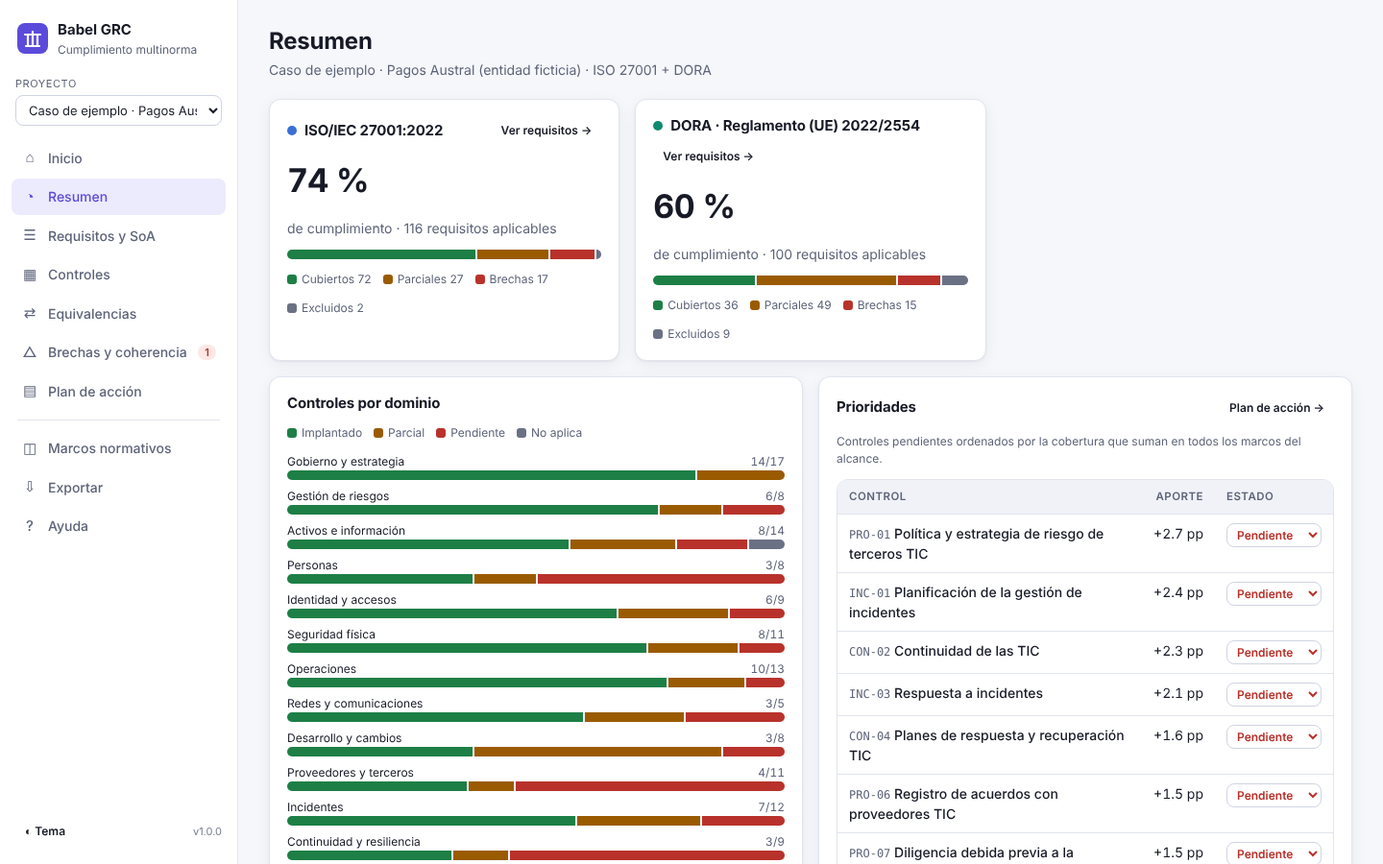
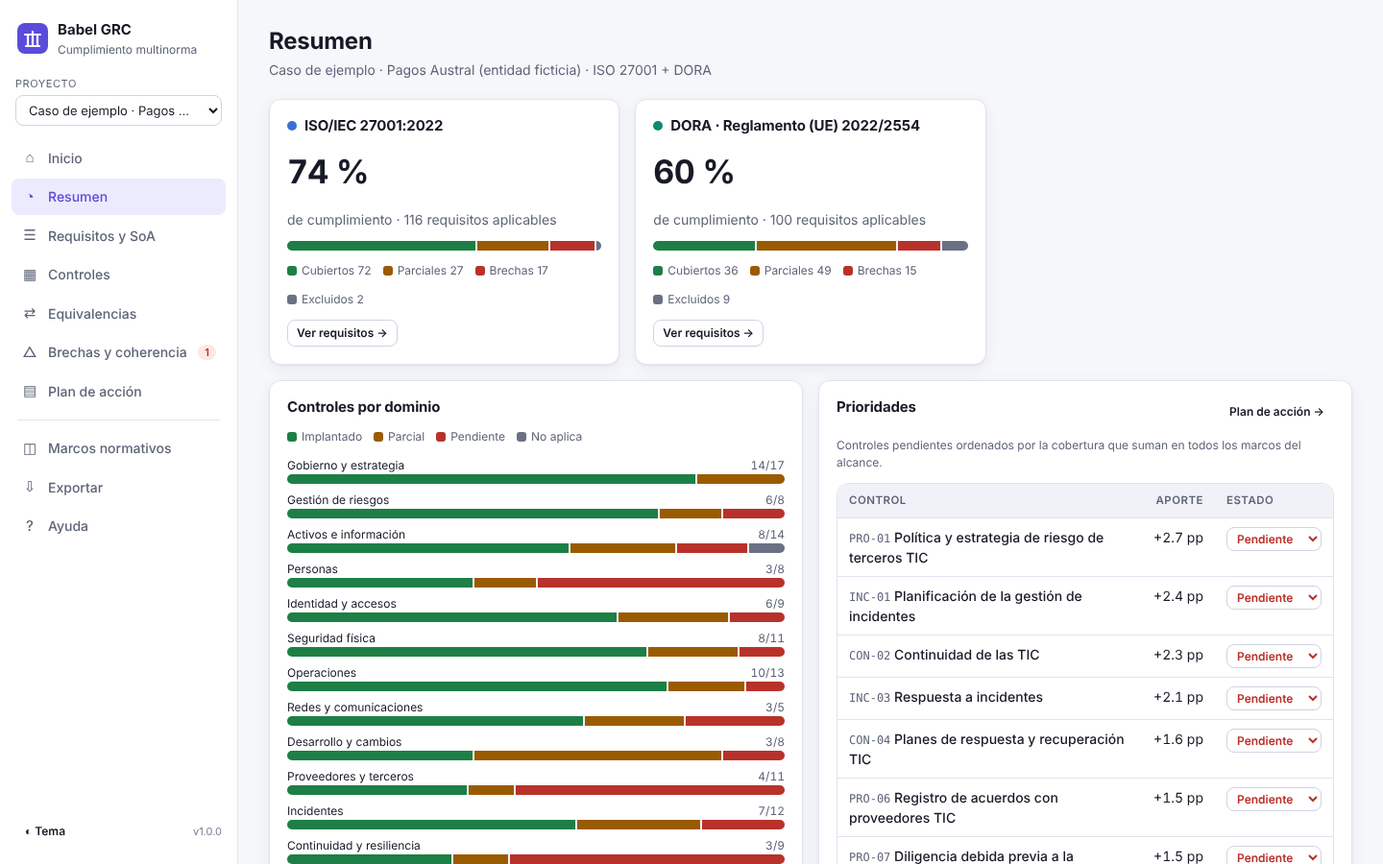
Corregir desbordes de contenido en tarjetas y vistas (1.0.1)
- Fichas de marcos: columna de valores con minmax(0, 1fr) y corte de
  palabras; URLs, versiones y nombres largos ya no salen de la tarjeta.
- fwTitle(): título de marco único que ajusta el nombre en varias líneas,
  usado en Marcos, Resumen, Equivalencias y Brechas.
- Cabeceras de tarjeta (.card-head) que no aprietan el título; grids y
  flex sin desbordes por contenido; chips y referencias que se ajustan.
- Móvil: el selector de proyecto y las etiquetas accesibles de las
  tablas ya no generan desplazamiento horizontal.
- Prueba E2E de regresión con un marco de textos extremos en todas las
  vistas y paneles, a 1440, 1000 y 390 px.

Claude-Session: https://claude.ai/code/session_01SeKHPEb1UECE1YRVMXTbff

diff --git a/src/styles/app.css b/src/styles/app.css
@@ -32,7 +32,8 @@
 }
 * { box-sizing: border-box; }
 html, body { margin: 0; height: 100%; }
-body { background: var(--bg); color: var(--text); font: 14px/1.5 var(--font); -webkit-font-smoothing: antialiased; }
+body { background: var(--bg); color: var(--text); font: 14px/1.5 var(--font); -webkit-font-smoothing: antialiased; overflow-wrap: anywhere; }
+table { overflow-wrap: break-word; }
 a { color: var(--accent); }
 h1, h2, h3, h4 { margin: 0; line-height: 1.25; letter-spacing: -.01em; }
 h1 { font-size: 24px; } h2 { font-size: 18px; } h3 { font-size: 15px; } h4 { font-size: 12px; text-transform: uppercase; letter-spacing: .05em; color: var(--muted); }
@@ -44,8 +45,8 @@ code, .mono { font-family: var(--mono); font-size: 12.5px; }
 [hidden] { display: none !important; }
 
 /* ---- layout ---- */
-.shell { display: grid; grid-template-columns: 248px 1fr; min-height: 100vh; }
-.side { position: sticky; top: 0; height: 100vh; overflow: auto; background: var(--surface); border-right: 1px solid var(--line); display: flex; flex-direction: column; padding: 16px 12px; gap: 14px; }
+.shell { display: grid; grid-template-columns: 248px minmax(0, 1fr); min-height: 100vh; }
+.side { min-width: 0; position: sticky; top: 0; height: 100vh; overflow: auto; background: var(--surface); border-right: 1px solid var(--line); display: flex; flex-direction: column; padding: 16px 12px; gap: 14px; }
 .brand { display: flex; gap: 10px; align-items: center; padding: 4px 6px; }
 .brand svg { width: 32px; height: 32px; flex: none; }
 .brand svg rect { fill: var(--accent); }
@@ -54,7 +55,7 @@ code, .mono { font-family: var(--mono); font-size: 12.5px; }
 .brand span { display: block; font-size: 12px; color: var(--muted); }
 .proj { padding: 0 4px; }
 .proj label { font-size: 11px; color: var(--muted); text-transform: uppercase; letter-spacing: .05em; display: block; margin-bottom: 4px; }
-.proj select { width: 100%; }
+.proj select { width: 100%; max-width: 100%; text-overflow: ellipsis; }
 nav { display: flex; flex-direction: column; gap: 2px; }
 nav button { all: unset; box-sizing: border-box; display: flex; align-items: center; gap: 10px; padding: 8px 10px; border-radius: 8px; cursor: pointer; color: var(--muted); font-weight: 500; }
 nav button:hover { background: var(--surface-2); color: var(--text); }
@@ -71,8 +72,18 @@ main { padding: 28px 32px 64px; min-width: 0; outline: none; }
 .grid { display: grid; gap: 16px; }
 .g2 { grid-template-columns: repeat(2, minmax(0, 1fr)); }
 .g3 { grid-template-columns: repeat(3, minmax(0, 1fr)); }
-.gauto { grid-template-columns: repeat(auto-fill, minmax(300px, 1fr)); }
+.gauto { grid-template-columns: repeat(auto-fill, minmax(min(300px, 100%), 1fr)); }
+.grid > * { min-width: 0; }
 .row { display: flex; gap: 8px; align-items: center; flex-wrap: wrap; }
+.row > *, .stack > * { min-width: 0; max-width: 100%; }
+.grow { flex: 1 1 0; min-width: 0; }
+.card-head { display: flex; gap: 8px 12px; align-items: flex-start; justify-content: space-between; }
+.card-head > :first-child { flex: 1 1 auto; min-width: 0; }
+.card-head > :not(:first-child) { flex: none; }
+.fw-title { display: flex; gap: 8px; align-items: baseline; flex-wrap: wrap; min-width: 0; }
+.fw-title > .fw-dot { align-self: center; }
+.fw-title > .name { flex: 1 1 12ch; min-width: 0; }
+.trunc { overflow: hidden; text-overflow: ellipsis; min-width: 0; }
 .spread { justify-content: space-between; }
 .stack { display: flex; flex-direction: column; gap: 8px; }
 .mt { margin-top: 16px; } .mt-s { margin-top: 8px; } .mb { margin-bottom: 16px; }
@@ -108,7 +119,7 @@ main { padding: 28px 32px 64px; min-width: 0; outline: none; }
 .bar.ok > span { background: var(--ok); } .bar.warn > span { background: var(--warn); } .bar.bad > span { background: var(--bad); }
 
 /* ---- chips ---- */
-.chip { display: inline-flex; align-items: center; gap: 5px; font-size: 12px; font-weight: 500; padding: 1px 8px; border-radius: 99px; background: var(--surface-2); color: var(--muted); border: 1px solid transparent; white-space: nowrap; }
+.chip { display: inline-flex; max-width: 100%; overflow: hidden; align-items: center; gap: 5px; font-size: 12px; font-weight: 500; padding: 1px 8px; border-radius: 99px; background: var(--surface-2); color: var(--muted); border: 1px solid transparent; white-space: nowrap; }
 .chip.ok, .chip.covered, .chip.implemented { background: var(--ok-soft); color: var(--ok); }
 .chip.warn, .chip.partial { background: var(--warn-soft); color: var(--warn); }
 .chip.bad, .chip.gap, .chip.pending, .chip.alta { background: var(--bad-soft); color: var(--bad); }
@@ -140,11 +151,12 @@ select.st.implemented { color: var(--ok); } select.st.partial { color: var(--war
 label.field { display: flex; flex-direction: column; gap: 4px; font-size: 12px; color: var(--muted); font-weight: 500; }
 label.check { display: flex; align-items: center; gap: 8px; cursor: pointer; }
 .filters { display: flex; gap: 8px; flex-wrap: wrap; align-items: center; margin-bottom: 12px; }
-.filters input[type=search] { min-width: 200px; flex: 1; max-width: 360px; }
+.filters input[type=search] { min-width: min(200px, 100%); flex: 1; max-width: 360px; }
+.filters select { max-width: 100%; }
 .vh { position: absolute; width: 1px; height: 1px; overflow: hidden; clip: rect(0 0 0 0); white-space: nowrap; }
 
 /* ---- tables ---- */
-.tbl-wrap { overflow-x: auto; border: 1px solid var(--line); border-radius: var(--radius); background: var(--surface); }
+.tbl-wrap { position: relative; overflow-x: auto; border: 1px solid var(--line); border-radius: var(--radius); background: var(--surface); }
 table { width: 100%; border-collapse: collapse; }
 th, td { text-align: left; padding: 9px 12px; border-bottom: 1px solid var(--line); vertical-align: top; }
 th { font-size: 11.5px; text-transform: uppercase; letter-spacing: .04em; color: var(--muted); font-weight: 600; background: var(--surface-2); }
@@ -152,7 +164,9 @@ tr:last-child td { border-bottom: 0; }
 tr.group td { background: var(--surface-2); font-weight: 600; font-size: 12.5px; color: var(--muted); }
 td .sub { color: var(--muted); font-size: 12px; margin-top: 2px; }
 td input[type=text] { width: 100%; min-width: 120px; }
-.ref { font-family: var(--mono); font-size: 12px; color: var(--muted); white-space: nowrap; }
+.ref { font-family: var(--mono); font-size: 12px; color: var(--muted); }
+td.ref { white-space: nowrap; }
+.list .ref { flex: none; max-width: 40%; }
 .linkish { all: unset; cursor: pointer; color: var(--text); font-weight: 500; }
 .linkish:hover { color: var(--accent); text-decoration: underline; }
 .linkish:focus-visible { outline: 2px solid var(--accent); }
@@ -162,6 +176,7 @@ td input[type=text] { width: 100%; min-width: 120px; }
 
 /* ---- plan ---- */
 .kanban { display: grid; grid-template-columns: repeat(3, minmax(0, 1fr)); gap: 14px; align-items: start; }
+.kanban > *, .kcard, .kcard > * { min-width: 0; }
 .col { background: var(--surface-2); border-radius: var(--radius); padding: 10px; display: flex; flex-direction: column; gap: 8px; min-height: 120px; }
 .col > h3 { padding: 4px 6px; display: flex; justify-content: space-between; }
 .kcard { background: var(--surface); border: 1px solid var(--line); border-radius: 10px; padding: 10px 12px; display: flex; flex-direction: column; gap: 6px; }
@@ -169,19 +184,22 @@ td input[type=text] { width: 100%; min-width: 120px; }
 .kcard input[type=text] { padding: 3px 7px; font-size: 12px; flex: 1; }
 
 /* ---- equivalences ---- */
-.eq { display: grid; grid-template-columns: minmax(260px, 380px) 1fr; gap: 16px; align-items: start; }
+.eq { display: grid; grid-template-columns: minmax(240px, 380px) minmax(0, 1fr); gap: 16px; align-items: start; }
+.eq > * { min-width: 0; }
 .list { max-height: 68vh; overflow: auto; display: flex; flex-direction: column; margin-top: 8px; }
-.list button { all: unset; box-sizing: border-box; padding: 7px 10px; border-radius: 8px; cursor: pointer; display: flex; gap: 8px; }
+.list button { all: unset; box-sizing: border-box; padding: 7px 10px; border-radius: 8px; cursor: pointer; display: flex; gap: 8px; max-width: 100%; overflow-wrap: anywhere; }
 .list button:hover { background: var(--surface-2); }
 .list button[aria-current="true"] { background: var(--accent-soft); }
 .list button:focus-visible { outline: 2px solid var(--accent); }
 
 /* ---- drawer / modal / toast ---- */
 .drawer { position: fixed; inset: 0; z-index: 50; display: flex; justify-content: flex-end; background: rgba(10,12,20,.35); }
-.drawer .panel { width: min(580px, 100%); height: 100%; overflow: auto; background: var(--surface); border-left: 1px solid var(--line); padding: 22px; box-shadow: -10px 0 30px rgba(0,0,0,.15); display: flex; flex-direction: column; gap: 14px; }
+.drawer .panel { min-width: 0; overflow-x: hidden; width: min(580px, 100%); height: 100%; overflow: auto; background: var(--surface); border-left: 1px solid var(--line); padding: 22px; box-shadow: -10px 0 30px rgba(0,0,0,.15); display: flex; flex-direction: column; gap: 14px; }
 .modal { position: fixed; inset: 0; z-index: 60; display: grid; place-items: center; background: rgba(10,12,20,.45); padding: 16px; }
-.modal .panel { width: min(680px, 100%); max-height: 90vh; overflow: auto; background: var(--surface); border: 1px solid var(--line); border-radius: var(--radius); padding: 22px; display: flex; flex-direction: column; gap: 14px; box-shadow: var(--shadow); }
+.modal .panel { min-width: 0; overflow-x: hidden; width: min(680px, 100%); max-height: 90vh; overflow: auto; background: var(--surface); border: 1px solid var(--line); border-radius: var(--radius); padding: 22px; display: flex; flex-direction: column; gap: 14px; box-shadow: var(--shadow); }
 .panel-head { display: flex; justify-content: space-between; gap: 12px; align-items: flex-start; }
+.panel-head > :first-child { min-width: 0; flex: 1 1 auto; }
+.panel-head > .x { flex: none; }
 .x { all: unset; cursor: pointer; font-size: 20px; line-height: 1; color: var(--muted); padding: 2px 6px; border-radius: 6px; }
 .x:hover { background: var(--surface-2); color: var(--text); }
 .x:focus-visible { outline: 2px solid var(--accent); }
@@ -189,8 +207,8 @@ td input[type=text] { width: 100%; min-width: 120px; }
 .toast.show { opacity: 1; }
 .drop { border: 2px dashed var(--line-2); border-radius: var(--radius); padding: 22px; text-align: center; color: var(--muted); }
 .drop.over { border-color: var(--accent); background: var(--accent-soft); }
-.kv { display: grid; grid-template-columns: 150px 1fr; gap: 4px 12px; font-size: 13px; margin: 0; }
-.kv dt { color: var(--muted); } .kv dd { margin: 0; }
+.kv { display: grid; grid-template-columns: minmax(80px, max-content) minmax(0, 1fr); gap: 4px 16px; font-size: 13px; margin: 0; }
+.kv dt { color: var(--muted); } .kv dd { margin: 0; min-width: 0; }
 details summary { cursor: pointer; font-weight: 600; }
 .prose h3 { margin-top: 20px; } .prose p, .prose ul, .prose ol { margin: 8px 0; max-width: 80ch; } .prose li { margin: 3px 0; }
 .formula { font-family: var(--mono); background: var(--surface-2); padding: 10px 12px; border-radius: 8px; display: inline-block; }
@@ -206,7 +224,6 @@ details summary { cursor: pointer; font-weight: 600; }
   .side-foot { margin-top: 0; }
   main { padding: 18px 16px 48px; }
   .g2, .g3, .kanban { grid-template-columns: 1fr; }
-  .kv { grid-template-columns: 1fr; }
 }
 @media print {
   .side, .filters, .btn, .drawer, .modal, .toast { display: none !important; }

diff --git a/src/app/02-views.js b/src/app/02-views.js
@@ -7,8 +7,8 @@ VIEWS.inicio = () => {
   const projects = S.projects.map(p => {
     const sc = scope(p);
     return `<div class="card">
-      <div class="row spread"><h3>${esc(p.name)}</h3>${p.id === S.activeId ? '<span class="chip accent">Abierto</span>' : ''}</div>
-      <div class="stack">${sc.length ? sc.map(id => { const s = E.frameworkScore(S.model, p, id); return `<div class="row spread small"><span class="row">${dot(id)}${esc(fw(id).shortName)}</span><span class="num">${pct(s.score)}</span></div>${bar(s.score)}`; }).join('') : '<p class="muted small">Sin marcos en el alcance.</p>'}</div>
+      <div class="card-head"><h3>${esc(p.name)}</h3>${p.id === S.activeId ? '<span class="chip accent">Abierto</span>' : ''}</div>
+      <div class="stack">${sc.length ? sc.map(id => { const s = E.frameworkScore(S.model, p, id); return `<div class="card-head small"><span class="fw-title">${dot(id)}<span class="name">${esc(fw(id).shortName)}</span></span><span class="num">${pct(s.score)}</span></div>${bar(s.score)}`; }).join('') : '<p class="muted small">Sin marcos en el alcance.</p>'}</div>
       <div class="row">
         ${p.id === S.activeId ? `<button class="btn primary sm" data-act="go" data-view="resumen" type="button">Ver resumen</button>` : `<button class="btn primary sm" data-act="open-project" data-id="${esc(p.id)}" type="button">Abrir</button>`}
         <button class="btn sm" data-act="rename-project" data-id="${esc(p.id)}" type="button">Renombrar</button>
@@ -95,10 +95,11 @@ VIEWS.resumen = () => {
   const cards = sc.map(id => {
     const s = E.frameworkScore(S.model, p, id), f = fw(id), c = s.counts;
     return `<div class="card">
-      <div class="row spread"><h3 class="row">${dot(id)}${esc(f.name)}</h3><button class="btn sm ghost" data-act="go" data-view="requisitos" data-fw="${esc(id)}" type="button">Ver requisitos →</button></div>
+      ${fwTitle(id)}
       <div class="score"><span class="big">${pct(s.score)}</span><span class="muted">de cumplimiento · ${s.applicable} requisitos aplicables</span></div>
       ${seg([['covered', c.covered, 'Cubiertos'], ['partial', c.partial, 'Parciales'], ['gap', c.gap, 'Brechas'], ['unmapped', c.unmapped, 'Sin mapear'], ['excluded', c.excluded, 'Excluidos']])}
       <div class="legend"><span><i class="s-covered"></i>Cubiertos ${c.covered}</span><span><i class="s-partial"></i>Parciales ${c.partial}</span><span><i class="s-gap"></i>Brechas ${c.gap}</span>${c.unmapped ? `<span><i class="s-unmapped"></i>Sin mapear ${c.unmapped}</span>` : ''}${c.excluded ? `<span><i class="s-excluded"></i>Excluidos ${c.excluded}</span>` : ''}</div>
+      <div><button class="btn sm" data-act="go" data-view="requisitos" data-fw="${esc(id)}" type="button">Ver requisitos →</button></div>
     </div>`;
   }).join('');
   const dom = E.domainSummary(S.model, p);
@@ -113,14 +114,14 @@ VIEWS.resumen = () => {
     <div class="grid g2">
       <div class="card"><h3>Controles por dominio</h3>
         <div class="legend"><span><i class="s-implemented"></i>Implantado</span><span><i class="s-partial"></i>Parcial</span><span><i class="s-pending"></i>Pendiente</span><span><i class="s-na"></i>No aplica</span></div>
-        <div class="stack">${dom.map(d => `<div><div class="row spread small"><span>${esc(d.title)}</span><span class="muted num">${d.implemented}/${d.total}</span></div>${seg([['implemented', d.implemented, 'Implantados'], ['partial', d.partial, 'Parciales'], ['pending', d.pending, 'Pendientes'], ['na', d.na, 'No aplica']])}</div>`).join('')}</div>
+        <div class="stack">${dom.map(d => `<div><div class="card-head small"><span>${esc(d.title)}</span><span class="muted num">${d.implemented}/${d.total}</span></div>${seg([['implemented', d.implemented, 'Implantados'], ['partial', d.partial, 'Parciales'], ['pending', d.pending, 'Pendientes'], ['na', d.na, 'No aplica']])}</div>`).join('')}</div>
       </div>
       <div class="stack">
-        <div class="card"><div class="row spread"><h3>Prioridades</h3><button class="btn sm ghost" data-act="go" data-view="plan" type="button">Plan de acción →</button></div>
+        <div class="card"><div class="card-head"><h3>Prioridades</h3><button class="btn sm ghost" data-act="go" data-view="plan" type="button">Plan de acción →</button></div>
           <p class="muted small">Controles pendientes ordenados por la cobertura que suman en todos los marcos del alcance.</p>
           ${pr.length ? `<div class="tbl-wrap"><table><thead><tr><th>Control</th><th class="right">Aporte</th><th>Estado</th></tr></thead><tbody>${pr.map(x => `<tr><td><button class="linkish" data-act="ctrl" data-id="${esc(x.control)}" type="button"><span class="ref">${esc(x.control)}</span> ${esc(ctrl(x.control).title)}</button></td><td class="right num nowrap">+${(x.gain * 100).toFixed(1)} pp</td><td>${statusSelect(x.control, x.status, null, 'pr-' + x.control)}</td></tr>`).join('')}</tbody></table></div>` : '<p class="muted">No quedan controles pendientes. ✓</p>'}
         </div>
-        <div class="card"><div class="row spread"><h3>Coherencia</h3><button class="btn sm ghost" data-act="go" data-view="brechas" type="button">Ver alertas →</button></div>
+        <div class="card"><div class="card-head"><h3>Coherencia</h3><button class="btn sm ghost" data-act="go" data-view="brechas" type="button">Ver alertas →</button></div>
           <div class="row"><span class="chip alta">Alta ${sev('alta')}</span><span class="chip media">Media ${sev('media')}</span><span class="chip baja">Baja ${sev('baja')}</span></div>
         </div>
       </div>
@@ -281,12 +282,12 @@ VIEWS.equivalencias = () => {
       <div class="card">
         <div class="filters"><label class="vh" for="eq-fw">Marco</label><select id="eq-fw" data-chg="eq-fw">${all.map(x => `<option value="${esc(x.id)}"${x.id === sel ? ' selected' : ''}>${esc(x.name)}</option>`).join('')}</select>
         <label class="vh" for="eq-q">Buscar</label><input type="search" id="eq-q" placeholder="Filtrar requisitos…" value="${esc(filt('q', ''))}" data-inp="filter" data-key="q"></div>
-        <div class="list">${items.map(x => `<button type="button" data-act="eq-pick" data-fw="${esc(sel)}" data-id="${esc(x.id)}"${x.id === rid ? ' aria-current="true"' : ''}><span class="ref">${esc(x.ref)}</span><span>${esc(x.title)}</span></button>`).join('') || '<p class="muted small">Sin resultados.</p>'}</div>
+        <div class="list">${items.map(x => `<button type="button" data-act="eq-pick" data-fw="${esc(sel)}" data-id="${esc(x.id)}"${x.id === rid ? ' aria-current="true"' : ''}><span class="ref">${esc(x.ref)}</span><span class="grow">${esc(x.title)}</span></button>`).join('') || '<p class="muted small">Sin resultados.</p>'}</div>
       </div>
       <div class="stack">
         <div class="card"><div class="row">${fwTag(sel)}<span class="ref">${esc(r.ref)}</span>${stateChip(c.state)}</div><h2>${esc(r.title)}</h2>${r.summary ? `<p class="muted">${esc(r.summary)}</p>` : ''}
           <div class="row">${c.links.map(l => ctrlChip(l.control, p) + `<span class="faint small">${E.STRENGTH_LABEL[l.strength].toLowerCase()}</span>`).join(' ')}</div></div>
-        ${Object.keys(grouped).length ? Object.keys(grouped).map(g => `<div class="card"><h3 class="row">${dot(g)}${esc(fw(g).name)} <span class="muted small">${grouped[g].length} requisito(s)</span></h3>
+        ${Object.keys(grouped).length ? Object.keys(grouped).map(g => `<div class="card">${fwTitle(g, ` <span class="muted small nowrap">${grouped[g].length} requisito(s)</span>`)}
           <div class="tbl-wrap"><table><thead><tr><th>Ref.</th><th>Requisito</th><th>Tipo</th><th>Vía</th><th>Estado</th></tr></thead><tbody>
           ${grouped[g].map(e => { const o = req(e.fw, e.req), oc = E.requirementCoverage(S.model, p, e.fw, e.req); return `<tr><td class="ref">${esc(o.ref)}</td><td><button class="linkish" data-act="eq-pick" data-fw="${esc(e.fw)}" data-id="${esc(e.req)}" type="button">${esc(o.title)}</button></td><td><span class="chip ${e.strength === 'full' ? 'ok' : e.strength === 'partial' ? 'warn' : ''}">${e.strength === 'full' ? 'Equivalente' : E.STRENGTH_LABEL[e.strength]}</span></td><td class="mono small">${e.via.map(esc).join(', ')}</td><td>${stateChip(oc.state)}</td></tr>`; }).join('')}
           </tbody></table></div></div>`).join('') : '<div class="card empty">Este requisito no comparte controles con otros marcos.</div>'}
@@ -306,11 +307,11 @@ VIEWS.brechas = () => {
   const shown = al.filter(a => !sv || a.severity === sv);
   const gaps = sc.map(id => {
     const list = fw(id).requirements.map(r => E.requirementCoverage(S.model, p, id, r.id)).filter(c => c.state === 'gap' || c.state === 'unmapped');
-    return `<div class="card"><h3 class="row">${dot(id)}${esc(fw(id).name)} <span class="chip bad">${list.length} sin cubrir</span></h3>
+    return `<div class="card">${fwTitle(id, ` <span class="chip bad">${list.length} sin cubrir</span>`)}
       ${list.length ? `<div class="tbl-wrap"><table><tbody>${list.map(c => `<tr><td class="ref">${esc(c.req.ref)}</td><td><button class="linkish" data-act="req" data-fw="${esc(id)}" data-id="${esc(c.req.id)}" type="button">${esc(c.req.title)}</button></td><td>${stateChip(c.state)}</td><td><div class="row">${c.links.filter(l => l.weight > 0).map(l => ctrlChip(l.control, p)).join(' ')}</div></td></tr>`).join('')}</tbody></table></div>` : '<p class="muted">Todos los requisitos aplicables tienen alguna cobertura.</p>'}</div>`;
   }).join('');
   return head('Brechas y coherencia', 'Requisitos sin cobertura en cada marco y alertas de coherencia: controles sin evidencias o sin responsable, revisiones de más de 12 meses, exclusiones no permitidas o contradictorias entre marcos y requisitos sin mapear.') +
-    `<div class="card mb"><div class="row spread"><h2>Alertas (${al.length})</h2>
+    `<div class="card mb"><div class="card-head"><h2>Alertas (${al.length})</h2>
       <div class="row"><label class="vh" for="br-sv">Severidad</label><select id="br-sv" data-chg="filter" data-key="sv"><option value="">Todas</option>${['alta', 'media', 'baja'].map(k => `<option value="${k}"${k === sv ? ' selected' : ''}>${k[0].toUpperCase() + k.slice(1)}</option>`).join('')}</select></div></div>
       ${shown.length ? `<div class="tbl-wrap"><table><thead><tr><th>Severidad</th><th>Regla</th><th>Objeto</th><th>Detalle</th></tr></thead><tbody>${shown.slice(0, 400).map(a => `<tr><td><span class="chip ${a.severity}">${a.severity}</span></td><td class="nowrap small">${esc(RULES[a.rule] || a.rule)}</td><td>${a.control ? ctrlChip(a.control, p) : a.req ? `<button class="linkish small" data-act="req" data-fw="${esc(a.fw)}" data-id="${esc(a.req)}" type="button">${esc(req(a.fw, a.req).ref)}</button>` : fwTag(a.fw)}</td><td class="small">${esc(a.message)}</td></tr>`).join('')}</tbody></table></div>${shown.length > 400 ? `<p class="muted small">Se muestran las primeras 400 de ${shown.length}.</p>` : ''}` : '<div class="callout ok">Sin incoherencias para este filtro.</div>'}
     </div>

diff --git a/src/app/03-marcos.js b/src/app/03-marcos.js
@@ -21,7 +21,7 @@ VIEWS.marcos = () => {
   const cards = frameworks().map(f => {
     const st = fwStats(f), custom = isCustom(f.id);
     return `<div class="card">
-      <div class="row spread"><h3 class="row">${dot(f.id)}${esc(f.name)}</h3><span class="chip ${custom ? 'accent' : ''}">${custom ? 'Importado' : 'Incluido'}</span></div>
+      <div class="card-head">${fwTitle(f.id)}<span class="chip ${custom ? 'accent' : ''}">${custom ? 'Importado' : 'Incluido'}</span></div>
       <p class="muted small">${esc(f.description || '')}</p>
       <dl class="kv">
         ${f.version ? `<dt>Versión</dt><dd>${esc(f.version)}</dd>` : ''}${f.publisher ? `<dt>Emisor</dt><dd>${esc(f.publisher)}</dd>` : ''}${f.jurisdiction ? `<dt>Ámbito</dt><dd>${esc(f.jurisdiction)}</dd>` : ''}
@@ -197,7 +197,7 @@ function openMapEditor(fwId) {
     <p class="muted small">Asociá cada requisito con controles del catálogo común. Total: el control lo cubre por completo. Parcial: lo cubre en parte. Relación: informativo, no cuenta para el cálculo.</p>
     <label class="check small"><input type="checkbox" data-chg="map-only" data-fw="${esc(f.id)}"${mapOnly ? ' checked' : ''}>Mostrar solo requisitos sin mapear</label>
     <datalist id="ctrl-list">${Array.from(S.model.controls.values()).map(c => `<option value="${esc(c.id)}">${esc(c.title)}</option>`).join('')}</datalist>
-    <div class="stack">${rows.slice(0, 300).map(({ r, i }) => `<div class="card flat"><div class="row"><span class="ref">${esc(r.ref)}</span><strong>${esc(r.title)}</strong></div>
+    <div class="stack">${rows.slice(0, 300).map(({ r, i }) => `<div class="card flat"><div class="row"><span class="ref">${esc(r.ref)}</span><strong class="grow">${esc(r.title)}</strong></div>
         <div class="row">${(r.mappings || []).map((m, j) => `<span class="chip ${m.strength === 'full' ? 'ok' : m.strength === 'partial' ? 'warn' : ''}"><span class="mono">${esc(m.control)}</span> ${E.STRENGTH_LABEL[m.strength]}<button class="x small" data-act="map-del" data-fw="${esc(f.id)}" data-i="${i}" data-j="${j}" type="button" aria-label="Quitar ${esc(m.control)}">×</button></span>`).join('') || '<span class="chip unmapped">Sin mapear</span>'}</div>
         <div class="row"><label class="vh" for="mc-${i}">Control para ${esc(r.ref)}</label><input type="text" id="mc-${i}" list="ctrl-list" placeholder="Id de control (ej.: GOB-01)" maxlength="12">
           <label class="vh" for="ms-${i}">Fuerza del enlace</label><select id="ms-${i}"><option value="full">Total</option><option value="partial">Parcial</option><option value="related">Relación</option></select>

diff --git a/src/app/04-io.js b/src/app/04-io.js
@@ -72,10 +72,10 @@ VIEWS.exportar = () => {
     `<div class="grid g2">
       <div class="card"><h2>Proyecto${p ? ' · ' + esc(p.name) : ''}</h2>
         ${p ? `<div class="stack">
-          <div class="row spread"><span>Libro Excel: resumen, declaración de aplicabilidad por marco, controles, plan y alertas</span><button class="btn primary sm" data-act="exp-xlsx" type="button">Excel</button></div>
-          <div class="row spread"><span>Informe en Markdown</span><button class="btn sm" data-act="exp-md" type="button">Markdown</button></div>
-          <div class="row spread"><span>Controles en CSV</span><button class="btn sm" data-act="exp-csv" type="button">CSV</button></div>
-          <div class="row spread"><span>Proyecto en JSON (para compartir o versionar)</span><button class="btn sm" data-act="exp-json" type="button">JSON</button></div>
+          <div class="card-head"><span>Libro Excel: resumen, declaración de aplicabilidad por marco, controles, plan y alertas</span><button class="btn primary sm" data-act="exp-xlsx" type="button">Excel</button></div>
+          <div class="card-head"><span>Informe en Markdown</span><button class="btn sm" data-act="exp-md" type="button">Markdown</button></div>
+          <div class="card-head"><span>Controles en CSV</span><button class="btn sm" data-act="exp-csv" type="button">CSV</button></div>
+          <div class="card-head"><span>Proyecto en JSON (para compartir o versionar)</span><button class="btn sm" data-act="exp-json" type="button">JSON</button></div>
         </div>` : '<p class="muted">Abrí un proyecto para exportarlo.</p>'}
       </div>
       <div class="card"><h2>Copia de seguridad completa</h2>

diff --git a/src/app/01-core.js b/src/app/01-core.js
@@ -53,7 +53,9 @@ function dot(fwId) {
   const f = fw(fwId);
   return `<span class="fw-dot" data-color="${esc(f && HEX.test(f.color) ? f.color : '#5b4bdb')}" aria-hidden="true"></span>`;
 }
-function fwTag(fwId) { const f = fw(fwId); return `<span class="chip outline">${dot(fwId)}${esc(f ? f.shortName : fwId)}</span>`; }
+function fwTag(fwId) { const f = fw(fwId); const n = f ? f.shortName : fwId; return `<span class="chip outline" title="${esc(f ? f.name : fwId)}">${dot(fwId)}<span class="trunc">${esc(n)}</span></span>`; }
+/** Título de marco con su color: el nombre se ajusta en varias líneas sin desbordar. */
+function fwTitle(fwId, extra, tag) { const f = fw(fwId); const t = tag || 'h3'; return `<${t} class="fw-title">${dot(fwId)}<span class="name">${esc(f ? f.name : fwId)}</span>${extra || ''}</${t}>`; }
 function stChip(status) { return `<span class="chip ${status}">${esc(E.STATUS_LABEL[status])}</span>`; }
 function stateChip(state) { return `<span class="chip ${state}">${esc(E.STATE_LABEL[state])}</span>`; }
 function bar(v, cls) { const c = cls || (v >= 0.9999 ? 'ok' : v > 0 ? 'warn' : 'bad'); return `<div class="bar ${c}" role="img" aria-label="${pct(v)}"><span data-w="${Math.round(v * 1000) / 10}"></span></div>`; }

diff --git a/CHANGELOG.md b/CHANGELOG.md
@@ -1,5 +1,16 @@
 # Cambios
 
+## 1.0.1 · 2026-10-05
+
+Corrección de visualización: contenidos que se salían de las tarjetas.
+
+- Fichas de marcos: la columna de valores ya no se desborda con URLs, versiones o nombres largos.
+- Títulos de marco con un único componente (`fwTitle`) que ajusta el nombre en varias líneas; cabeceras de tarjeta que no aprietan el título.
+- Grids y flex sin desbordes por contenido (`minmax(0, 1fr)`, `min-width: 0`) y corte de palabras largas.
+- Móvil: un nombre de proyecto largo ya no ensancha la página; las etiquetas accesibles de las tablas ya no generan desplazamiento horizontal.
+- Resumen: el botón «Ver requisitos» pasa al pie de cada tarjeta.
+- Nueva prueba E2E: importa un marco con textos extremos y verifica que ningún contenido se desborda en todas las vistas y paneles, a 1440, 1000 y 390 px.
+
 ## 1.0.0 · 2026-10-05
 
 Primera versión.

diff --git a/README.md b/README.md
@@ -16,7 +16,7 @@ babel-grc
 ├─ catálogo:    147 controles unificados en 14 dominios
 ├─ cálculo:     cobertura ponderada · equivalencias · solapamiento · 10 reglas de coherencia · plan priorizado
 ├─ aplicación:  HTML + CSS + JavaScript sin framework · un único index.html · tema claro y oscuro · móvil
-├─ pruebas:     node:test (27) · Playwright E2E (8)
+├─ pruebas:     node:test (27) · Playwright E2E (9, incluida una prueba de desbordes con marcos de textos extremos)
 └─ seguridad:   CSP con hashes · SRI · cero peticiones a terceros · neutralización de fórmulas
 ```
 
